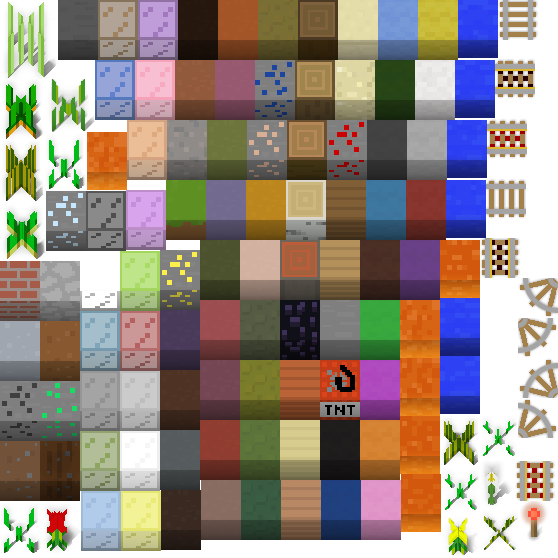
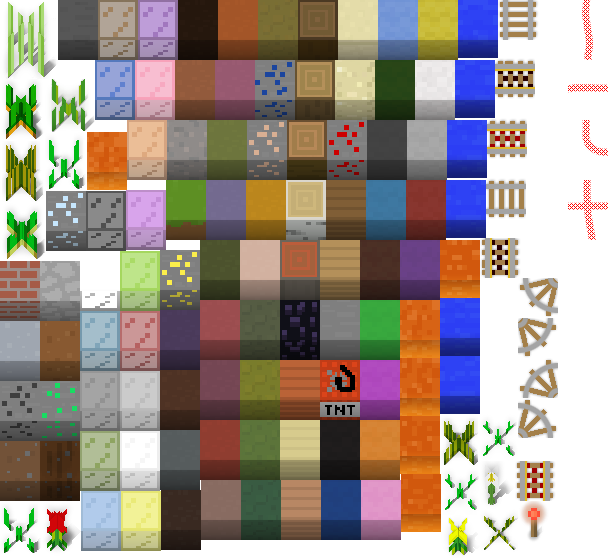
adding redstone_dust sprites

diff --git a/src/test-build-only/levels.js b/src/test-build-only/levels.js
@@ -60,9 +60,9 @@ window.demoLevels = {
       "grass", "grass", "grass", "dirtCoarse", "dirtCoarse", "dirtCoarse", "grass", "grass", "grass", "grass",
       "grass", "grass", "grass", "grass", "grass", "grass", "grass", "grass", "grass", "grass",
       "grass", "grass", "grass", "grass", "grass", "grass", "grass", "grass", "grass", "grass",
-      "grass", "grass", "grass", "grass", "grass", "grass", "grass", "grass", "grass", "grass",
-      "grass", "grass", "grass", "grass", "grass", "grass", "grass", "grass", "grass", "grass",
-      "grass", "grass", "grass", "grass", "grass", "grass", "grass", "grass", "grass", "grass"
+      "grass", "grass", "grass", "water", "lava", "water", "grass", "grass", "grass", "grass",
+      "grass", "grass", "grass", "water", "lava", "water", "grass", "grass", "grass", "grass",
+      "grass", "grass", "grass", "water", "lava", "water", "grass", "grass", "grass", "grass"
     ],
 
     groundDecorationPlane: ["", "", "", "", "", "", "", "", "", "",
@@ -78,10 +78,10 @@ window.demoLevels = {
 
     actionPlane: ["grass", "grass", "", "", "", "", "", "", "grass", "grass",
       "", "grass", "", "", "", "", "", "", "", "grass",
-      "", "", "", "", "", "", "", "", "", "",
-      "", "", "", "", "", "", "", "", "torch", "",
-      "", "", "", "", "", "", "", "", "", "",
-      "dirt", "treeJungle", "", "", "", "", "", "", "", "",
+      "", "", "redstone_dust", "redstone_dust", "redstone_dust", "redstone_dust", "", "redstone_dust", "oreRedstone", "redstone_dust",
+      "", "", "", "", "", "oreRedstone", "", "redstone_dust", "torch", "",
+      "", "", "", "", "", "redstone_dust", "redstone_dust", "redstone_dust", "", "",
+      "dirt", "treeJungle", "", "", "", "", "", "redstone_dust", "", "",
       "", "", "grass", "door", "", "", "", "", "", "",
       "", "", "", "", "", "", "", "", "treeAcacia", "",
       "", "", "", "", "", "", "", "", "", "",

diff --git a/src/js/game/LevelMVC/LevelView.js b/src/js/game/LevelMVC/LevelView.js
@@ -127,6 +127,8 @@ export default class LevelView {
       "railsPoweredHorizontal": ["blocks", "Rails_PoweredHorizontal", -13, 0],
       "railsPoweredVertical": ["blocks", "Rails_PoweredVertical", -13, 0],
       "railsRedstoneTorch": ["blocks", "Rails_RedstoneTorch", -12, 9],
+      
+      "redstone_dust": ["blocks", "Redstone_Dust_Vertical", -13, 0],
     };
 
     this.actionPlaneBlocks = [];
@@ -1139,6 +1141,7 @@ export default class LevelView {
           }
         }
 
+        //pelican
         sprite = null;
         if (!levelData.actionPlane[blockIndex].isEmpty) {
           blockType = levelData.actionPlane[blockIndex].blockType;
@@ -1987,6 +1990,22 @@ export default class LevelView {
         break;
 
       case "tnt":
+        atlas = this.blocks[blockType][0];
+        frame = this.blocks[blockType][1];
+        xOffset = this.blocks[blockType][2];
+        yOffset = this.blocks[blockType][3];
+        sprite = plane.create(xOffset + 40 * x, yOffset + plane.yOffset + 40 * y, atlas, frame);
+        frameList = Phaser.Animation.generateFrameNames("TNTexplosion", 0, 8, "", 0);
+        sprite.animations.add("explode", frameList, 7, false).onComplete.add(() => {
+          this.playExplosionCloudAnimation([x, y]);
+          sprite.kill();
+          this.toDestroy.push(sprite);
+          this.actionPlaneBlocks[this.coordinatesToIndex([x, y])] = null;
+        });
+        break;
+
+      //pelican
+      case "redstone_dust":
         atlas = this.blocks[blockType][0];
         frame = this.blocks[blockType][1];
         xOffset = this.blocks[blockType][2];

diff --git a/src/js/game/LevelMVC/LevelBlock.js b/src/js/game/LevelMVC/LevelBlock.js
@@ -93,6 +93,14 @@ export default class LevelBlock {
       this.isDestroyable = false;
       this.isTransparent = true;
     }
+    
+    if (blockType === "redstone_dust") {
+      this.isEntity = true;
+      this.isWalkable = true;
+      this.isUsable = true;
+      this.isDestroyable = true;
+      this.isTransparent = true;
+    }
   }
 
   getIsTree() {
